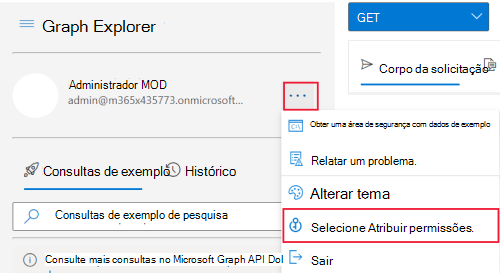
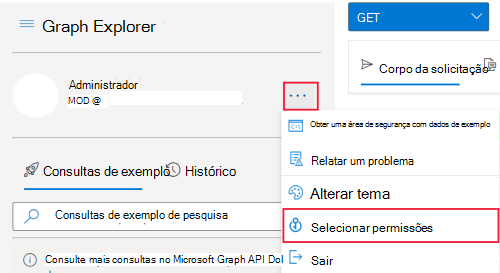
commit translated contents

Changed region(s): [[0.12, 0.3516, 0.48, 0.4103], [0.72, 0.8205, 0.96, 0.8498], [0.27, 0.293, 0.33, 0.3223]]

diff --git a/concepts/auth-v2-service.md b/concepts/auth-v2-service.md
@@ -5,22 +5,22 @@ author: jackson-woods
 ms.localizationpriority: high
 ms.prod: applications
 ms.custom: graphiamtop20
-ms.openlocfilehash: 9e218fb7f570ff52587a1f9cd0921ea0efbce971
-ms.sourcegitcommit: 6c04234af08efce558e9bf926062b4686a84f1b2
+ms.openlocfilehash: 4310bbc6c2dc64b9e59cb6f0dfe1010a043452c4
+ms.sourcegitcommit: 77d2ab5018371f153d47cc1cd25f9dcbaca28a95
 ms.translationtype: HT
 ms.contentlocale: pt-BR
-ms.lasthandoff: 09/12/2021
-ms.locfileid: "59035560"
+ms.lasthandoff: 03/08/2022
+ms.locfileid: "63333635"
 ---
 # <a name="get-access-without-a-user"></a>Obter acesso sem um usuário
 
-Alguns aplicativos chamam o Microsoft Graph com sua própria identidade e não em nome de um usuário. Em muitos casos, esses são os serviços em plano de fundo ou daemons que podem ser executados em um servidor sem a presença de um usuário conectado. Um exemplo de como um aplicativo pode ser um serviço de arquivamento de email que é ativado e executado durante a noite. Em alguns casos, aplicativos que tenham um usuário conectado no momento talvez precisem chamar o Microsoft Graph com sua própria identidade também. Por exemplo, um aplicativo talvez precise usar a funcionalidade que exige privilégios mais elevados em uma organização do que aqueles realizados pelo usuário conectado.  
+Alguns aplicativos chamam o Microsoft Graph com sua própria identidade e não em nome de um usuário. Em muitos casos, esses aplicativos são serviços em segundo plano ou daemons executados em um servidor sem a presença de um usuário conectado. Um exemplo desse aplicativo pode ser um serviço de arquivamento de email que é ativado e executado durante a noite. Em alguns casos, os aplicativos que têm um usuário conectado presente também podem precisar chamar o Microsoft Graph sob sua própria identidade. Por exemplo, um aplicativo pode precisar usar a funcionalidade que exige privilégios mais elevados em uma organização do que o usuário conectado pode ter.  
 
-Os aplicativos que chamam o Microsoft Graph com sua própria identidade usam o [fluxo de concessão de credenciais do cliente](/azure/active-directory/develop/v2-oauth2-client-creds-grant-flow) OAuth 2.0 para obter tokens de acesso do Azure AD. Este tópico descreve as etapas básicas para configurar um serviço e usa o fluxo de concessão de credenciais do cliente OAuth para obter um token de acesso.
+Aplicativos que chamam o Microsoft Graph com sua própria identidade usam o [fluxo de concessão de credenciais de cliente](/azure/active-directory/develop/v2-oauth2-client-creds-grant-flow) do OAuth 2.0 para obter tokens de acesso do Azure Active Directory. Este artigo descreve as etapas básicas para configurar um serviço e usar o fluxo de concessão de credenciais do cliente OAuth para obter um token de acesso.
 
 ## <a name="authentication-and-authorization-steps"></a>Etapas de autenticação e autorização
 
-As etapas básicas necessárias para configurar um serviço e obter um token para o ponto de extremidade da plataforma de identidade da Microsoft que seu serviço pode usar para fazer chamadas para o Microsoft Graph com sua própria identidade são:
+Siga estas etapas básicas para configurar um serviço e obter um token do ponto de extremidade da plataforma de identidade da Microsoft. Seu serviço pode usar o token para chamar o Microsoft Graph sob sua própria identidade.
 
 1. Registre seu aplicativo.
 2. Configure permissões para o Microsoft Graph em seu aplicativo.
@@ -34,32 +34,38 @@ Para autenticar com o ponto de extremidade da plataforma de identidade da Micros
 
 Para um serviço que chamará o Microsoft Graph com sua própria identidade, você precisa registrar seu aplicativo na plataforma Web e copiar os seguintes valores:
 
-- A ID do Aplicativo atribuída pelo portal de registro de aplicativo do Azure.
-- Um Segredo do Cliente (aplicativo), que pode ser uma senha ou um par de chaves públicas/particulares (certificado).
+- A ID do aplicativo atribuída pelo portal de registro de aplicativo do Azure.
+- Um segredo do cliente (aplicativo), que pode ser uma senha ou um par de chaves públicas/particulares (certificado).
 - Uma URL de redirecionamento para seu serviço receber respostas do token.
 - Uma URL de redirecionamento para seu serviço receber respostas de consentimento do administrador se seu aplicativo implementar a funcionalidade para solicitar o consentimento do administrador.  
 
 Para saber como configurar um aplicativo usando o Portal de Registro de Aplicativos do Azure, confira [Registre seu aplicativo](./auth-register-app-v2.md).
 
-Com o fluxo de concessão de credenciais do cliente OAuth 2.0, seu aplicativo é autenticado diretamente no ponto de extremidade `/token` da plataforma de identidade da Microsoft usando a ID do Aplicativo atribuída pelo Azure AD e o Segredo do Aplicativo que você cria usando o portal.
+Com o fluxo de concessão de credenciais do cliente OAuth 2.0, seu aplicativo é autenticado diretamente no ponto de extremidade `/token` da plataforma de identidade da Microsoft usando a ID do aplicativo atribuída pelo Azure Active Directory e o segredo do cliente que você cria usando o portal.
 
 ## <a name="2-configure-permissions-for-microsoft-graph"></a>2. Configure permissões para o Microsoft Graph
 
-Para aplicativos que chamam o Microsoft com sua própria identidade, o Microsoft Graph expõe permissões do aplicativo. (O Microsoft Graph também pode expor as permissões delegadas para aplicativos que chamam o Microsoft Graph em nome de um usuário.) Configure previamente as permissões do aplicativo necessárias quando registrar o aplicativo. As permissões do aplicativo sempre exigem o consentimento do administrador. Um administrador pode autorizar essas permissões usando o [Portal do Azure](https://portal.azure.com) quando o aplicativo for instalado em sua organização ou pode fornecer uma experiência de inscrição em seu aplicativo por meio da qual os administradores podem concordar com as permissões configuradas. Depois que o consentimento do administrador for registrado pelo Azure AD, seu aplicativo poderá solicitar tokens sem ter que solicitar consentimento novamente. Para obter mais informações sobre as permissões disponibilizadas pelo Microsoft Graph, confira a [Referência de permissões](./permissions-reference.md)
+Microsoft Graph expõe **permissões de aplicativo** para aplicativos que chamam o Microsoft Graph sob sua própria identidade (o Microsoft Graph também expõe permissões delegadas para aplicativos que chamam o Microsoft Graph em nome de um usuário).
 
-Para configurar as permissões de aplicativo para seu aplicativo no [Portal de Registros de Aplicativos do Azure](https://go.microsoft.com/fwlink/?linkid=2083908): na página **permissões de API** do aplicativo, escolha **Adicionar uma permissão**, selecione **Microsoft Graph**, e, em seguida, escolha as permissões exigidas pelo aplicativo em **Permissões do aplicativo**.
+Você pré-configura as permissões de aplicativo de que seu aplicativo precisa ao registrar seu aplicativo. As permissões de aplicativo sempre exigem consentimento do administrador. Um administrador pode consentir com essas permissões usando o [portal do Azure](https://portal.azure.com) quando seu aplicativo estiver instalado em sua organização ou você pode fornecer uma experiência de inscrição em seu aplicativo por meio da qual os administradores podem consentir com as permissões configuradas. Depois que o consentimento do administrador é registrado pelo Azure Active Directory, seu aplicativo pode solicitar tokens sem precisar solicitar consentimento novamente. Para obter informações mais detalhadas sobre as permissões disponíveis com o Microsoft Graph, consulte a [Referência de permissões](./permissions-reference.md)
+
+Para configurar permissões de aplicativo para seu aplicativo no [portal de registros de aplicativos do Azure](https://go.microsoft.com/fwlink/?linkid=2083908), na página de **permissões de API** de um aplicativo, escolha **Adicionar uma permissão**, selecione **Microsoft Graph** e, em seguida, escolha as permissões que seu aplicativo requer em **Permissões de aplicativo**.
 
 A captura de tela a seguir mostra a caixa de diálogo **Selecionar Permissões** para permissões de aplicativo do Microsoft Graph.
 
-![Marque a caixa de diálogo Permissões para as Permissões de aplicativo do Microsoft Graph.](./images/auth-v2/v2-application-permissions.png)
+:::image type="content" source="./images/auth-v2/v2-application-permissions.png" alt-text="Selecionar Janela de permissões para as permissões do aplicativo do Microsoft Graph." border="true":::
 
-> **Observação**: Recomendamos que você configure o conjunto com menos privilégios de permissões necessárias para seu aplicativo. Isso proporciona uma experiência muito mais confortável para os administradores do que ter que consentir com uma longa lista de permissões.
+> [!IMPORTANT]
+> 
+> Configure o conjunto menos privilegiado de permissões exigido pelo aplicativo para melhorar sua segurança. Para obter mais informações, consulte [Aprimorar a segurança com o princípio de privilégios mínimos](/azure/active-directory/develop/secure-least-privileged-access).
 
 ## <a name="3-get-administrator-consent"></a>3. Obtenha o consentimento do administrador
 
 Você pode confiar em um administrador para conceder as permissões que seu aplicativo precisa no [Portal do Azure](https://portal.azure.com). No entanto, muitas vezes, a melhor opção seria fornecer uma experiência de inscrição para administradores usando o ponto de extremidade `/adminconsent` da plataforma de identidade da Microsoft. 
 
-> **Importante**: Sempre que fizer uma alteração nas permissões configuradas, convém repetir o processo de Consentimento do Administrador. As alterações feitas no portal de registro de aplicativos não serão refletidas até que o consentimento tiver sido reaplicado pelo administrador do locatário.
+> [!IMPORTANT]
+> 
+> Ao alterar as permissões configuradas, você também deve repetir o processo de consentimento do administrador. As alterações feitas no portal de registro de aplicativos não serão refletidas até que o consentimento tiver sido reaplicado pelo administrador do locatário.
 
 ### <a name="request"></a>Solicitação
 
@@ -74,18 +80,18 @@ GET https://login.microsoftonline.com/{tenant}/adminconsent
 
 | Parâmetro     | Condição   | Descrição 
 |:--------------|:------------|:------------
-| locatário        | Obrigatório    | O locatário do diretório do qual você deseja solicitar permissão. Pode ser no formato de nome amigável ou GUID. Se você não souber a qual locatário o usuário pertence e quiser permitir que ele entre em qualquer locatário, use `common`.
-| client_id     | Obrigatório    | A ID de Aplicativo que o [Portal de Registro de Aplicativos do Azure](https://go.microsoft.com/fwlink/?linkid=2083908) atribuiu a seu aplicativo.
-| redirect_uri  | Obrigatório    | O URI de redirecionamento para onde você deseja que a resposta seja enviada para que o aplicativo trate da situação. Ele deve corresponder exatamente a um dos URIs de redirecionamento registrados no portal, exceto que ele deve ser codificado por URL e pode ter segmentos de caminho adicionais.
+| locatário        | Obrigatório    | O locatário de diretório do qual você deseja solicitar permissão. O valor pode estar no GUID ou em um formato de nome amigável. Se você não souber a qual locatário o usuário pertence e quiser permitir que ele entre com qualquer locatário, use `common`.
+| client_id     | Obrigatório    | A ID do aplicativo que o [portal de registro de aplicativo do Azure](https://go.microsoft.com/fwlink/?linkid=2083908) atribuiu ao seu aplicativo.
+| redirect_uri  | Obrigatório    | A URI de redirecionamento para a qual você deseja que a resposta seja enviada para o seu aplicativo manipular. Ela deve corresponder a uma das URIs de redirecionamento que você registrou no portal. Ela deve ser codificada em URL e pode ter segmentos de caminho adicionais.
 | estado         | Recomendado | Um valor incluído na solicitação e que também será retornado na resposta do token. Pode ser uma cadeia de caracteres de qualquer conteúdo que você desejar. O estado é usado para codificar as informações sobre o estado do usuário no aplicativo antes da solicitação de autenticação ter ocorrido, como a página ou o modo de exibição em que ele estava.
 
 ### <a name="administrator-consent-experience"></a>Experiência de consentimento do administrador
 
-Através de solicitações ao ponto de extremidade `/adminconsent`, o Azure AD exige que apenas um administrador de locatário possa fazer logon para concluir a solicitação. O administrador será solicitado a aprovar todas as Permissões de aplicativo que você solicitar para seu aplicativo no Portal de Registro de Aplicativos.
+Através de solicitações ao ponto de extremidade `/adminconsent`, o Azure Active Directory exige que apenas um administrador de locatário possa fazer logon para concluir a solicitação. Será solicitado ao administrador a aprovação de todas as permissões de aplicativo que você solicitar para seu aplicativo no portal de registro de aplicativos.
 
-Veja a seguir um exemplo da caixa de diálogo de consentimento que o Azure AD apresenta ao administrador:
+A captura de tela a seguir é um exemplo da caixa de diálogo de consentimento que o Azure Active Directory apresenta ao administrador:
 
-![Caixa de diálogo do consentimento do administrador.](./images/admin-consent.png)
+:::image type="content" source="./images/auth-v2/admin-consent.png" alt-text="Caixa de diálogo do consentimento do administrador." border="true":::
 
 ### <a name="response"></a>Resposta
 
@@ -106,13 +112,13 @@ GET https://localhost/myapp/permissions
 | admin_consent | Definir como **true**.
 
 
-> **Experimente**: Você pode experimentar ao colar a solicitação abaixo em um navegador. Se fizer logon como um Administrador global em um locatário do Azure AD, você verá a caixa de diálogo de consentimento do administrador para o aplicativo. (Este aplicativo será diferente do aplicativo exibido na tela da caixa de diálogo do consentimento previamente mostrada.)
+> **Tente**: você pode tentar isso por conta própria colando a seguinte solicitação em um navegador. Se você entrar como administrador global de um locatário do Azure Active Directory, verá a caixa de diálogo de consentimento do administrador para o aplicativo. (Este será um aplicativo diferente daquele na captura de tela da caixa de diálogo de consentimento mostrada anteriormente.)
 > 
 > https://login.microsoftonline.com/common/adminconsent?client_id=6731de76-14a6-49ae-97bc-6eba6914391e&state=12345&redirect_uri=https://localhost/myapp/permissions 
 
 ## <a name="4-get-an-access-token"></a>4. Obter um token de acesso
 
-No fluxo de concessão de credenciais do cliente OAuth 2.0, use os valores do Segredo do Aplicativo e ID do Aplicativo salvos quando você registrou o aplicativo para solicitar um token de acesso diretamente no ponto de extremidade `/token` da plataforma de identidade da Microsoft.
+No fluxo de concessão de credenciais do cliente OAuth 2.0, você usa a ID do aplicativo e os valores secretos do cliente que salvou quando registrou seu aplicativo para solicitar um token de acesso diretamente do ponto de extremidade `/token`da plataforma de identidade da Microsoft.
 
 Você especifica as permissões pré-configuradas passando `https://graph.microsoft.com/.default` como o valor para o parâmetro `scope` na solicitação de token. Confira a descrição do parâmetro `scope` na solicitação de token abaixo para obter detalhes.
 
@@ -135,10 +141,10 @@ client_id=535fb089-9ff3-47b6-9bfb-4f1264799865
 
 | Parâmetro     | Condição | Descrição 
 |:--------------|:----------|:------------
-| locatário        | Obrigatório  | O locatário do diretório do qual você deseja solicitar permissão. Pode ser no formato de nome amigável ou GUID.
-| client_id     | Obrigatório  | A ID de Aplicativo que o [Portal de Registro de Aplicativos do Azure](https://go.microsoft.com/fwlink/?linkid=2083908) atribuiu quando você registrou seu aplicativo.
-| scope         | Obrigatório  | O valor passado para o parâmetro `scope` nesta solicitação deve ser o identificador do recurso (URI da ID do Aplicativo) do recurso desejado, afixado com o sufixo `.default`. Para o Microsoft Graph, o valor é `https://graph.microsoft.com/.default`. Esse valor informa ao ponto de extremidade da plataforma de identidade da Microsoft que, de todas as permissões de aplicativo que você configurou no seu aplicativo, ele deve emitir um token para os aplicativos associados ao recurso que você quer usar.
-| client_secret | Obrigatório  | O Segredo do Aplicativo que você gerou para seu aplicativo no portal de registro do aplicativo. Certifique-se de que a URL esteja codificada.
+| locatário        | Obrigatório  | O locatário de diretório do qual você deseja solicitar permissão. O valor pode estar no GUID ou em um formato de nome amigável.
+| client_id     | Obrigatório  | A ID do aplicativo que o [portal de registro de aplicativo do Azure](https://go.microsoft.com/fwlink/?linkid=2083908) atribuído quando você registrou seu aplicativo.
+| scope         | Obrigatório  | O valor passado para o `scope` parâmetro nesta solicitação deve ser o identificador do recurso (URI da ID do aplicativo) do recurso desejado, afixado com o sufixo `.default`. Para o Microsoft Graph, o valor é `https://graph.microsoft.com/.default`. Esse valor informa ao ponto de extremidade da plataforma de identidade da Microsoft para incluir no token de acesso todas as permissões no nível do aplicativo que o administrador consentiu.
+| client_secret | Obrigatório  | O segredo do cliente que você gerou para seu aplicativo no portal de registro do aplicativo. Verifique se a URL está codificada.
 | grant_type    | Obrigatório  | Deve ser `client_credentials`.
 
 #### <a name="token-response"></a>Resposta do token
@@ -205,7 +211,7 @@ Content-Length: 407
 Os aplicativos que chamam o Microsoft Graph com sua própria identidade se enquadram em uma dessas categorias:
 
 - [Serviços em segundo plano (daemons)](/azure/active-directory/develop/scenario-daemon-overview) que podem ser executados em um servidor sem um usuário conectado.
-- Aplicativos que têm um usuário conectado, mas que também chamam o Microsoft Graph com sua própria identidade. Por exemplo, para usar a funcionalidade que exige privilégios mais elevados do usuário.
+- Aplicativos que têm um usuário conectado, mas também chamam o Microsoft Graph com sua própria identidade. Por exemplo, para usar a funcionalidade que requer privilégios mais elevados do que o usuário tem.
 
 Os aplicativos que chamam o Microsoft Graph com sua própria identidade usam a concessão de credenciais do cliente OAuth 2.0 para autenticar com o Azure Active Directory e obter um token. Para o ponto de extremidade da plataforma de identidade da Microsoft, você pode explorar ainda mais esse cenário com os seguintes recursos:
 
@@ -218,16 +224,17 @@ Os aplicativos que chamam o Microsoft Graph com sua própria identidade usam a c
 A Microsoft continua oferecendo suporte ao ponto de extremidade do Azure AD. Existem [várias diferenças](/azure/active-directory/develop/azure-ad-endpoint-comparison) entre a utilização do ponto de extremidade da plataforma de identidade da Microsoft e o ponto de extremidade do Azure AD. Durante o uso do ponto de extremidade do Azure AD:
 
 - Se o aplicativo for multilocatário, você deve configurá-lo explicitamente para funcionar como multilocatário no [portal do Azure](https://portal.azure.com).
-- Não há um ponto de extremidade de consentimento do administrador (`/adminconsent`). Em vez disso, o aplicativo pode solicitar o consentimento do administrador durante o tempo de execução adicionando o parâmetro `prompt=admin_consent` a uma solicitação de autorização. Para obter mais informações, confira **Como acionar a estrutura do consentimento do Azure Active Directory no tempo de execução** no artigo [Integração de aplicativos com o Azure Active Directory](/azure/active-directory/develop/active-directory-integrating-applications).
-- Os parâmetros nas solicitações de token e de autorização são diferentes. Por exemplo, não existe um parâmetro `scope` nas solicitações do ponto de extremidade do Azure AD. Em vez disso, o parâmetro `resource` é usado para especificar o URI do recurso (`resource=https://graph.microsoft.com`) que a autorização (para consentimento do administrador) ou um token está solicitando.
+- Não há nenhum ponto de extremidade de consentimento do administrador. Em vez disso, seu aplicativo pode solicitar o consentimento do administrador durante o runtime adicionando o `prompt=admin_consent`parâmetro a uma solicitação de autorização. Para obter mais informações, consulte **Disparando a estrutura de consentimento do Azure Active Directory no runtime** em [Integrando aplicativos com o Azure Active Directory](/azure/active-directory/develop/active-directory-integrating-applications).
+- Os parâmetros em solicitações de autorização e token são diferentes. Por exemplo, não há nenhum `scope` parâmetro em solicitações de ponto de extremidade do Azure Active Directory; em vez disso, o `resource` parâmetro é usado para especificar a URI do recurso (`resource=https://graph.microsoft.com`) para o qual a autorização (para consentimento do administrador) ou um token está sendo solicitado.
 
 Você pode explorar esse cenário ainda mais com os seguintes recursos:
 
-- Para saber mais sobre a plataforma de identidade da Microsoft com diferentes tipos de aplicativos, confira os links de **Introdução** na [documentação da plataforma de identidade da Microsoft](/azure/active-directory/develop/active-directory-developers-guide). Este guia contém links para tópicos de visão geral, guias de início rápido, tutoriais, exemplos de código e documentação de protocolo para diferentes tipos de aplicativos compatíveis com a plataforma de identidade da Microsoft.
+- Para saber mais sobre a plataforma de identidade da Microsoft com diferentes tipos de aplicativos, confira os links de **Introdução** na [documentação da plataforma de identidade da Microsoft](/azure/active-directory/develop/active-directory-developers-guide).
 - Para saber mais sobre a MSAL (Biblioteca de Autenticação da Microsoft) e o middleware de servidor disponíveis para uso com o ponto de extremidade da plataforma de identidade da Microsoft, confira [Bibliotecas de Autenticação da Microsoft](/azure/active-directory/develop/active-directory-authentication-libraries).
 
 
 ## <a name="see-also"></a>Confira também
 
-- Para ver um exemplo de um aplicativo Web hospedado no Serviço de Aplicativo do Azure chamando o Microsoft Graph como o aplicativo (usando identidades gerenciadas), consulte [Tutorial: Acessar o Microsoft Graph de um aplicativo seguro como o aplicativo](/azure/app-service/scenario-secure-app-access-microsoft-graph-as-app). Este tutorial mostra como criar uma identidade gerenciada atribuída pelo sistema em um aplicativo Web, adicionar permissões de API do Microsoft Graph a uma identidade gerenciada e chamar o Microsoft Graph.
+- [Escolher um provedor de autenticação do Microsoft Graph com base no cenário](/graph/sdks/choose-authentication-providers?tabs=CS)
+- [Saiba como criar um aplicativo Web que chama o Microsoft Graph sob sua própria identidade](/azure/app-service/scenario-secure-app-access-microsoft-graph-as-app).
 - Para exemplos de uso da plataforma de identidade da Microsoft para garantir diferentes tipos de aplicativos, confira [Exemplos de código da plataforma de identidade da Microsoft (ponto de extremidade v2.0)](/azure/active-directory/develop/sample-v2-code).
